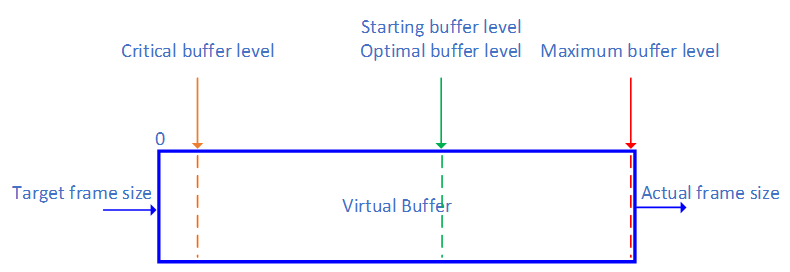
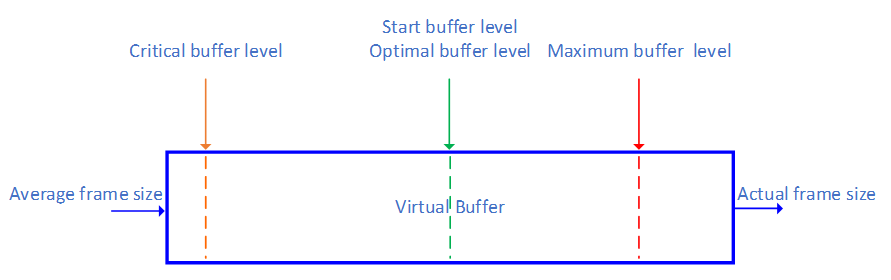
Updating rate control figure

diff --git a/Docs/Appendix-Rate-Control.md b/Docs/Appendix-Rate-Control.md
@@ -24,7 +24,7 @@
   * Block-basd Lambda Modulation Algorithm
   * Re-encoding
   * Post Encode RC Update
-5. [Constant Bitrate Rate Control](#constant-bitrate-rate-mode)
+5. [Constant Bitrate Rate Control](#constant-bitrate-rate-control)
 - Appendix A: Final-Pass Rate Control Functions
 - Appendix B: Speed Optimization of the Middle Pass
 - Appendix C: Capped CRF
